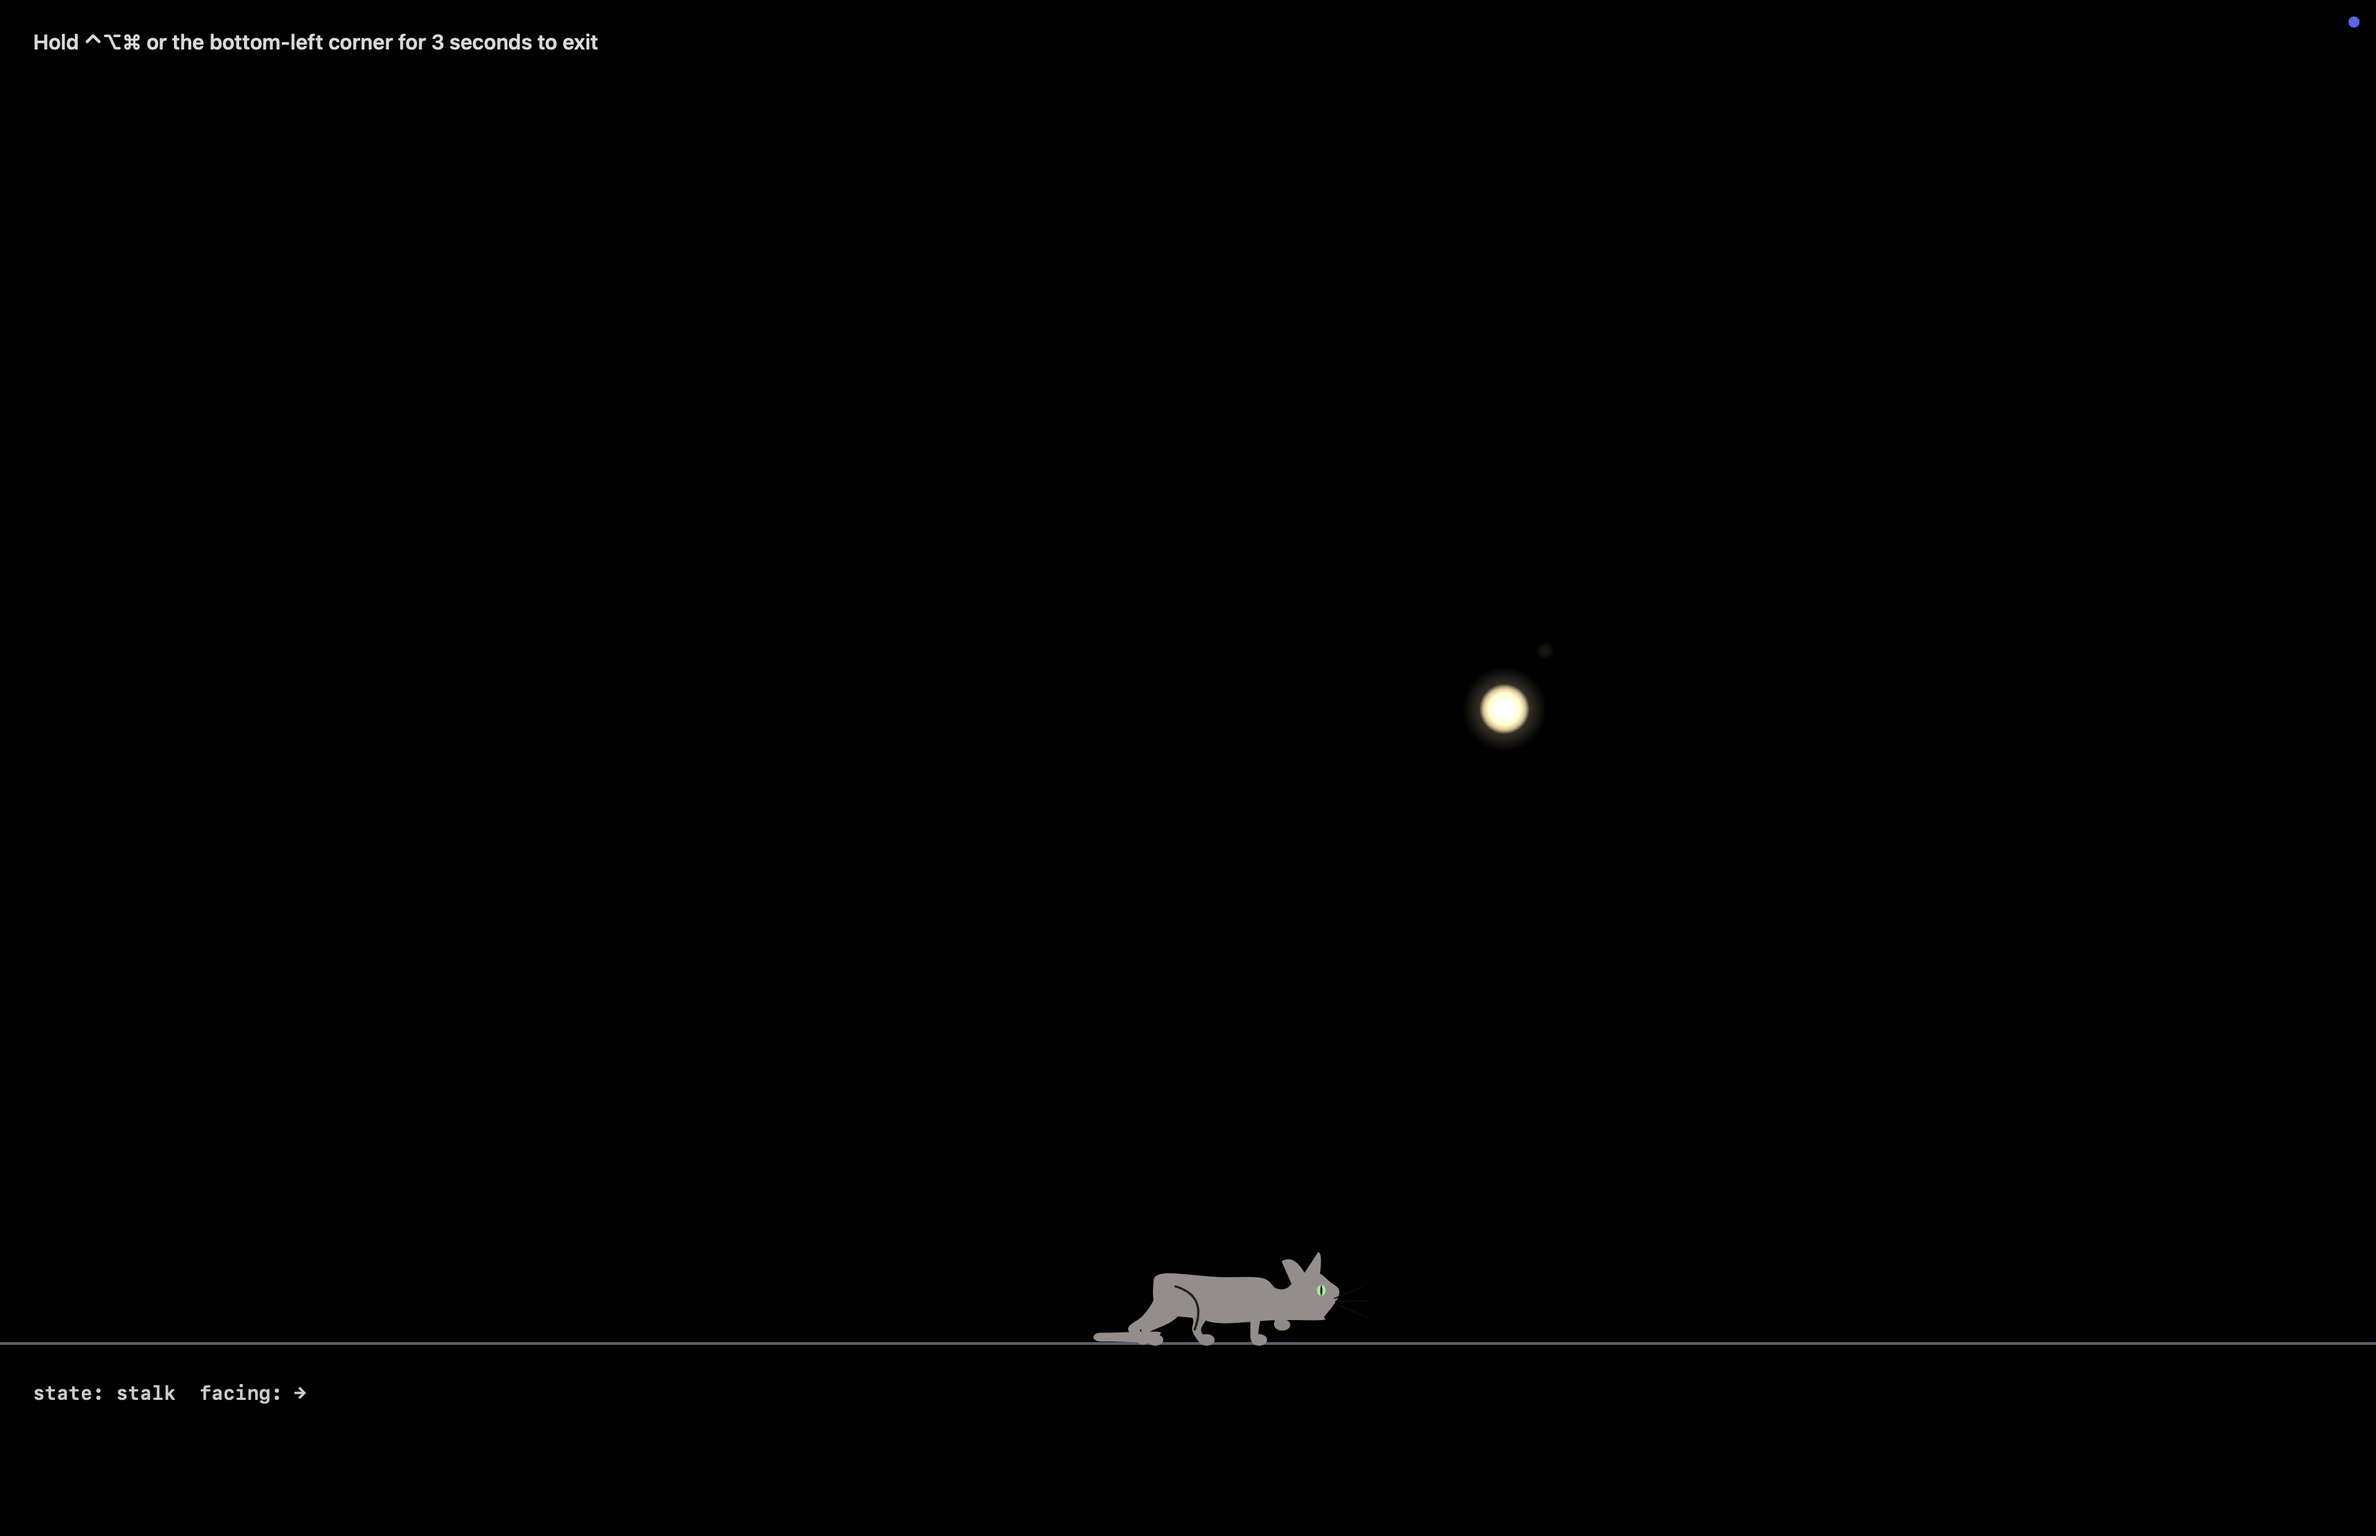
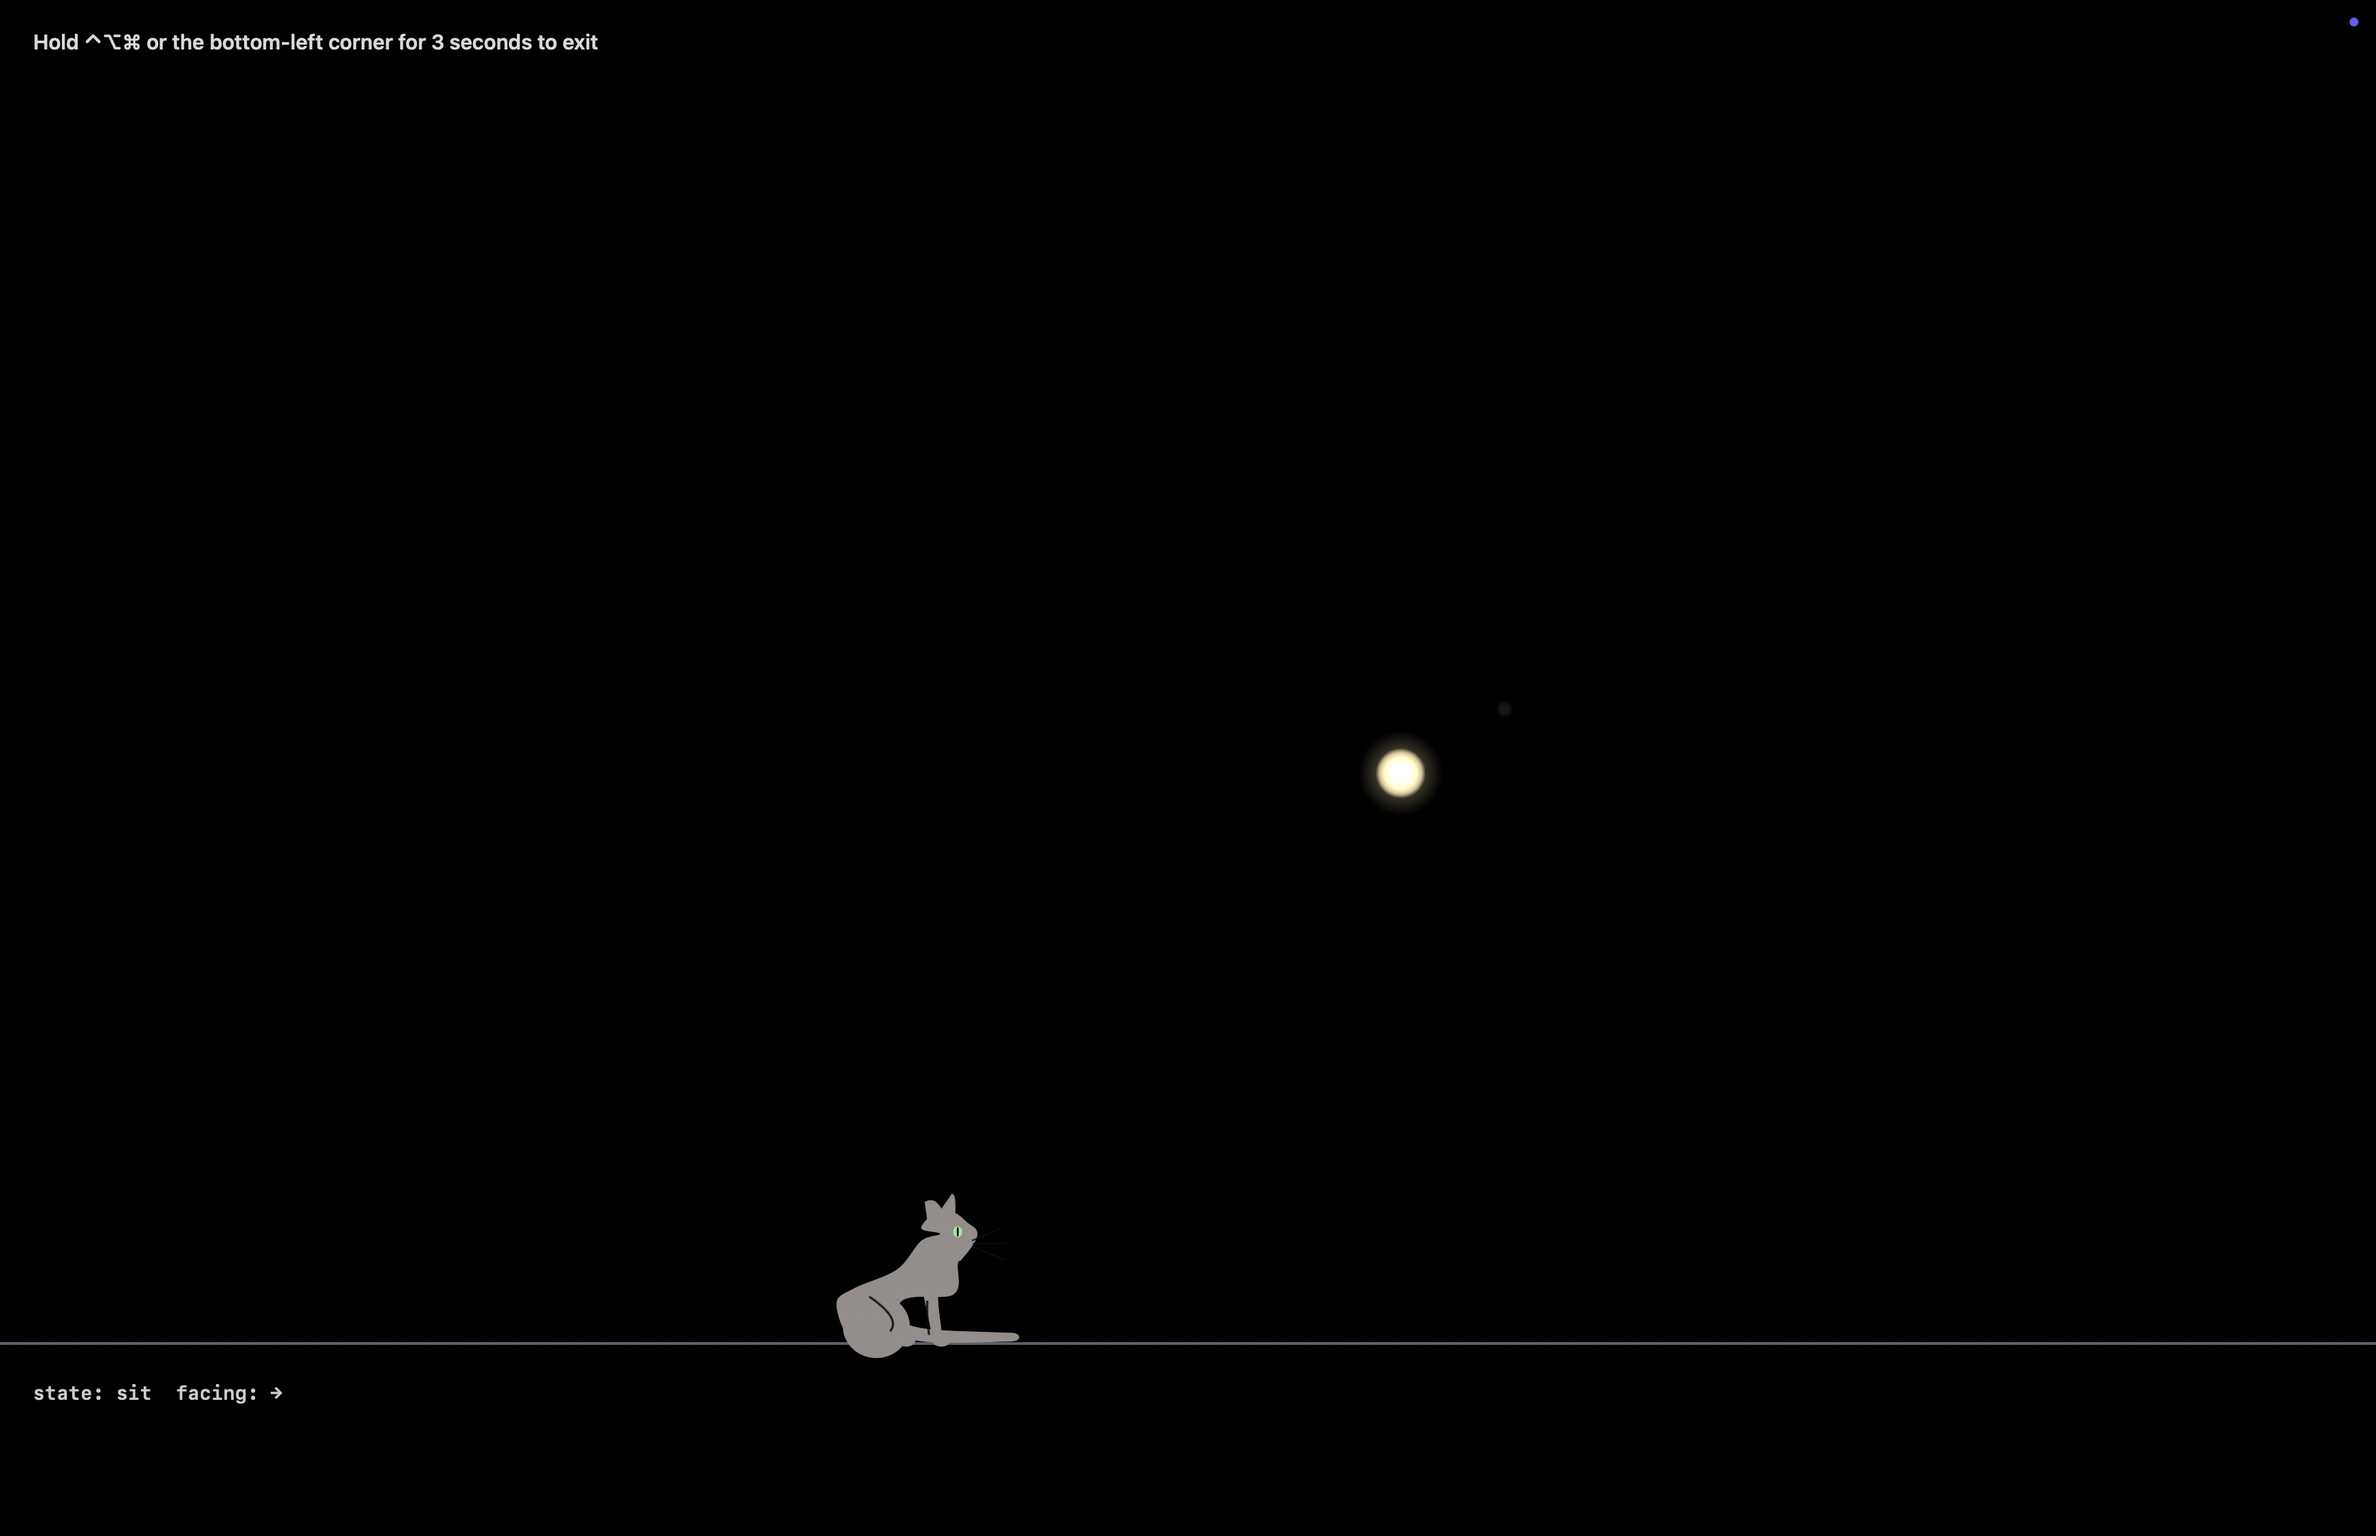
KiddyCat silhouette: reference proportion pass — plump, big-headed, tight ears
Side-by-side iteration against the user's reference sheet: bigger rounder
head (R 0.36), thick neck, deeper chest, fuller rump, stockier legs and
paws, fatter more-uniform tail with a finer tip taper, rear ear tucked
close behind the front ear as a tight pair, haunch accent as a clean arc
(no end hook). Verified per-pose: walk and sit both match the reference's
standing and sitting cats.

diff --git a/Sources/kiddyproof/KiddyCat.swift b/Sources/kiddyproof/KiddyCat.swift
@@ -559,7 +559,7 @@ final class KiddyCat {
                     (footX - 0.005, footY + 0.14),
                     (footX, footY + 0.05),
                 ])
-                path = Self.ribbon(pts, [s * 0.21, s * 0.135, s * 0.10, s * 0.095])
+                path = Self.ribbon(pts, [s * 0.25, s * 0.165, s * 0.125, s * 0.12])
             } else {
                 // Hip → knee (forward) → hock (heel points BACK — the cat cue) → paw.
                 let fold = 1 - sit
@@ -569,12 +569,12 @@ final class KiddyCat {
                     (footX - 0.07 * fold, footY + 0.17),
                     (footX, footY + 0.05),
                 ])
-                path = Self.ribbon(pts, [s * 0.36, s * 0.21, s * 0.11, s * 0.10])
+                path = Self.ribbon(pts, [s * 0.38, s * 0.24, s * 0.135, s * 0.125])
             }
             ctx.addPath(path)
             ctx.fillPath()
             // Paw: a soft rounded oval, slightly forward.
-            let pw = s * 0.10
+            let pw = s * 0.115
             let pp = P(footX + 0.055, footY + 0.045)
             ctx.fillEllipse(in: CGRect(x: pp.x - pw, y: pp.y - pw * 0.72, width: pw * 2, height: pw * 1.44))
         }
@@ -588,7 +588,7 @@ final class KiddyCat {
             let n = pts.count
             let widths = (0..<n).map { i -> CGFloat in
                 let t = CGFloat(i) / CGFloat(n - 1)
-                return s * (0.155 - 0.055 * t * t)
+                return s * (0.175 - 0.075 * t * t)
             }
             ctx.setFillColor(bodyColor.cgColor)
             ctx.addPath(Self.ribbon(pts, widths))
@@ -599,7 +599,7 @@ final class KiddyCat {
         // cat profile (crown → brow → nose STEP → chin → jaw), not a circle —
         // the muzzle step is what the reference silhouettes live on.
         let hp = headPitch
-        let R: CGFloat = 0.33
+        let R: CGFloat = 0.36
         let hcx = headX - 0.09, hcy = headY - 0.13 + hp * 0.22
         // Head-relative point, gently rotated by head pitch.
         let ca = cos(hp * 0.5), sa = sin(hp * 0.5)
@@ -610,15 +610,15 @@ final class KiddyCat {
         let bellyY = shoulderY - 0.50 + pose.crouch * 0.22
         var outline: [(CGFloat, CGFloat)] = []
         outline.append(H(R * 0.15, -R * 0.94))                              // under jaw
-        outline.append((shoulderX + 0.14 + sit * 0.11, shoulderY - 0.34 - sit * 0.04)) // chest
+        outline.append((shoulderX + 0.18 + sit * 0.11, shoulderY - 0.40 - sit * 0.02)) // chest
         outline.append(((shoulderX + rumpX) / 2 + 0.06, bellyY))            // belly
         outline.append((rumpX + 0.30, rumpY - 0.38 - sit * 0.10))           // groin / thigh front
         outline.append((rumpX - 0.16, rumpY - 0.30 - sit * 0.12))           // under tail
-        outline.append((rumpX - 0.24 - sit * 0.06, rumpY + 0.02))           // rump back
-        outline.append((rumpX - 0.12, rumpY + 0.18 + pose.backArch * 0.5))  // rump top
+        outline.append((rumpX - 0.28 - sit * 0.06, rumpY + 0.02))           // rump back
+        outline.append((rumpX - 0.12, rumpY + 0.21 + pose.backArch * 0.5))  // rump top
         outline.append(((rumpX + shoulderX) / 2, spineTopY))                // spine crest
         outline.append((shoulderX - 0.02 - sit * 0.10, shoulderY + 0.19 + sit * 0.06 + pose.backArch * 0.3)) // withers
-        outline.append((shoulderX + 0.16 - sit * 0.08, shoulderY + 0.06 + sit * 0.26)) // neck top
+        outline.append((shoulderX + 0.20 - sit * 0.08, shoulderY + 0.08 + sit * 0.26)) // neck top
         outline.append(H(-R * 0.70, R * 0.62))                              // crown back
         outline.append(H(-R * 0.12, R * 0.98))                              // crown top
         outline.append(H(R * 0.55, R * 0.82))                               // brow
@@ -633,7 +633,7 @@ final class KiddyCat {
 
         // Ears: big, slightly canted outward, convex outer edge (reference cue).
         let flick = earFlick * 0.1
-        let earLen = R * (0.66 + 0.38 * pose.earPerk)
+        let earLen = R * (0.60 + 0.36 * pose.earPerk)
         func ear(baseA: CGFloat, tipA: CGFloat, tipLen: CGFloat) {
             let e = CGMutablePath()
             let a1 = baseA - 0.36, a2 = baseA + 0.36
@@ -646,8 +646,8 @@ final class KiddyCat {
             ctx.addPath(e)
             ctx.fillPath()
         }
-        ear(baseA: 1.84 + hp * 0.5, tipA: 1.94 + hp * 0.5 + flick, tipLen: earLen) // rear ear
-        ear(baseA: 1.22 + hp * 0.5, tipA: 1.10 + hp * 0.5, tipLen: earLen)         // front ear
+        ear(baseA: 1.70 + hp * 0.5, tipA: 1.78 + hp * 0.5 + flick, tipLen: earLen * 0.88) // rear ear
+        ear(baseA: 1.26 + hp * 0.5, tipA: 1.14 + hp * 0.5, tipLen: earLen)         // front ear
 
         // Sitting: haunch mass over the folded rear, blended into the outline.
         if sit > 0.15 {
@@ -669,8 +669,8 @@ final class KiddyCat {
         // Haunch: a sweeping thigh arc from the tail root around and down.
         let haunch = CGMutablePath()
         haunch.move(to: P(rumpX + 0.04 + sit * 0.04, rumpY + 0.02 + sit * 0.08))
-        haunch.addQuadCurve(to: P(rumpX + 0.28 + sit * 0.12, rumpY - 0.52 + sit * 0.18),
-                            control: P(rumpX + 0.44 + sit * 0.06, rumpY - 0.10))
+        haunch.addQuadCurve(to: P(rumpX + 0.22 + sit * 0.12, rumpY - 0.50 + sit * 0.18),
+                            control: P(rumpX + 0.40 + sit * 0.06, rumpY - 0.16))
         ctx.addPath(haunch)
         ctx.strokePath()
         // Foreleg: a short line separating the near front leg from the chest.
